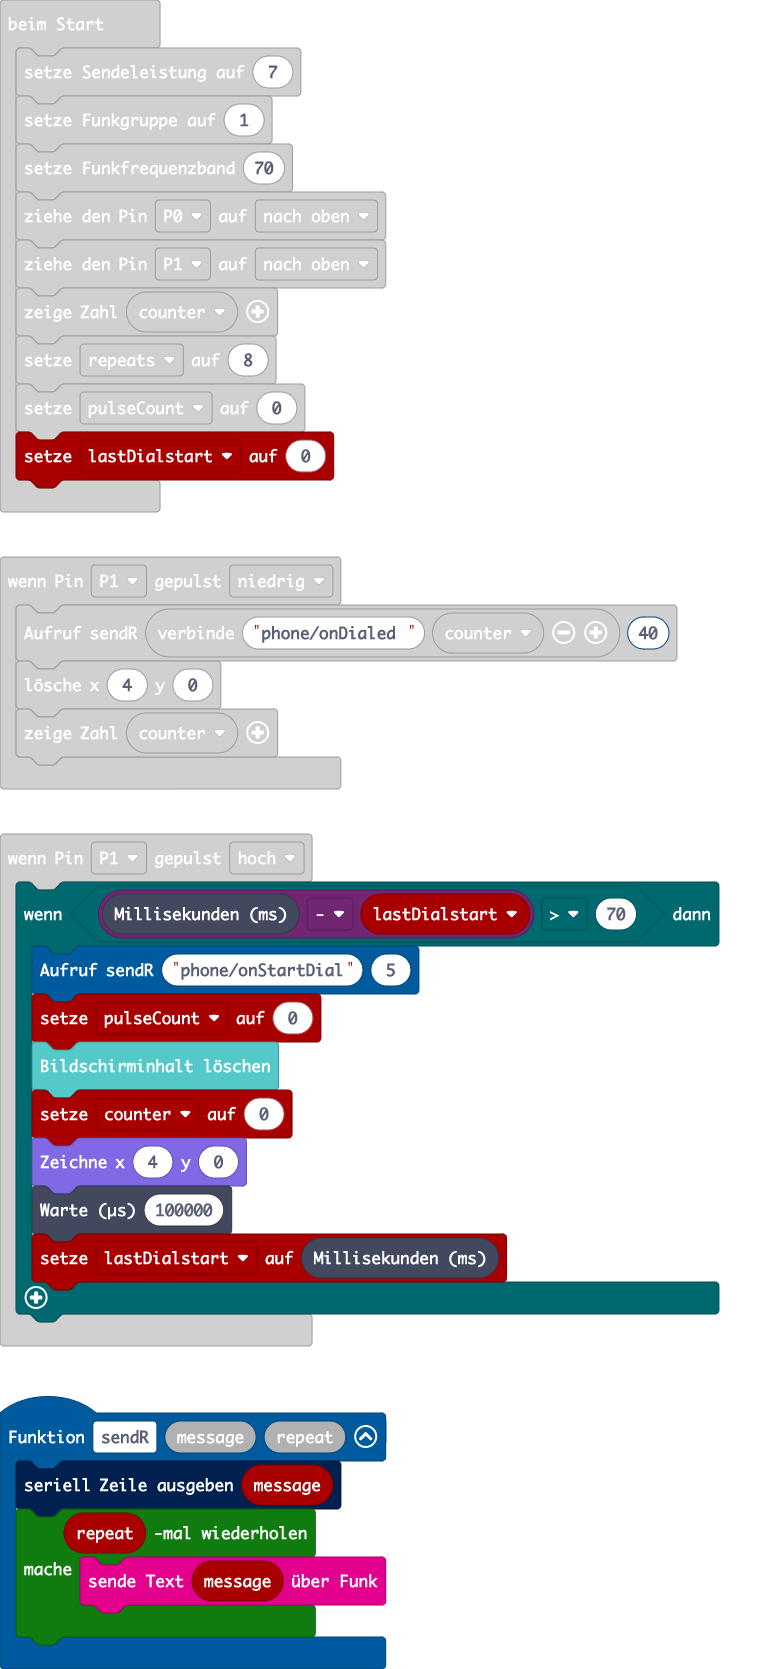
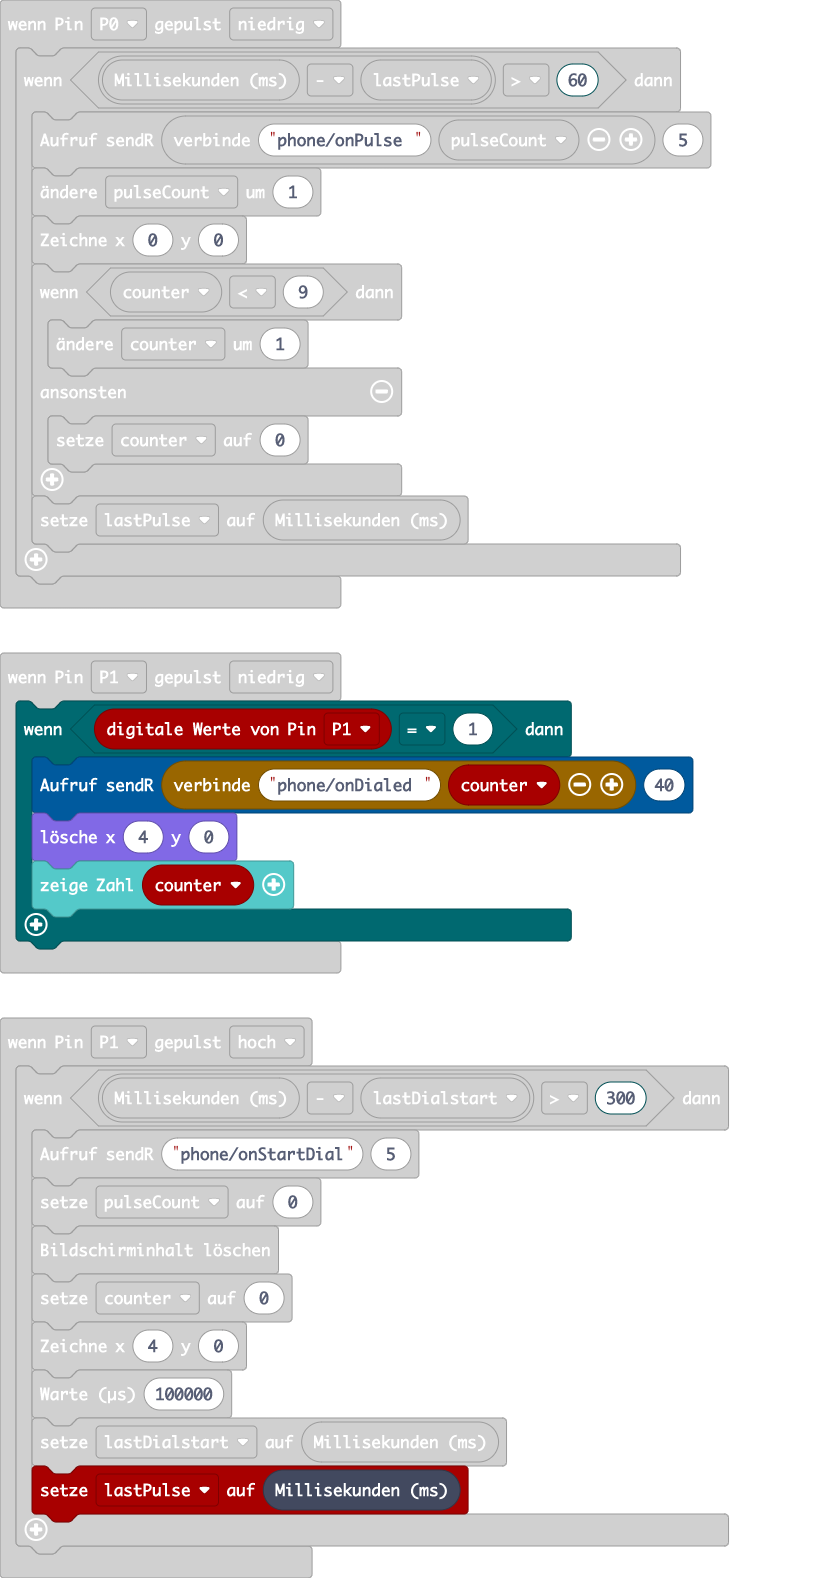
debounce dialed trigger

diff --git a/main.ts b/main.ts
@@ -5,9 +5,11 @@ input.onButtonEvent(Button.A, ButtonEvent.Click, function () {
     sendR("phone/onButtonA", 5)
 })
 pins.onPulsed(DigitalPin.P1, PulseValue.Low, function () {
-    sendR("phone/onDialed " + counter, 40)
-    led.unplot(4, 0)
-    basic.showNumber(counter)
+    if (pins.digitalReadPin(DigitalPin.P1) == 1) {
+        sendR("phone/onDialed " + counter, 40)
+        led.unplot(4, 0)
+        basic.showNumber(counter)
+    }
 })
 function sendR (message: string, repeat: number) {
     serial.writeLine(message)
@@ -16,7 +18,7 @@ function sendR (message: string, repeat: number) {
     }
 }
 pins.onPulsed(DigitalPin.P1, PulseValue.High, function () {
-    if (control.millis() - lastDialstart > 70) {
+    if (control.millis() - lastDialstart > 300) {
         sendR("phone/onStartDial", 5)
         pulseCount = 0
         basic.clearScreen()
@@ -24,13 +26,14 @@ pins.onPulsed(DigitalPin.P1, PulseValue.High, function () {
         led.plot(4, 0)
         control.waitMicros(100000)
         lastDialstart = control.millis()
+        lastPulse = control.millis()
     }
 })
 pins.onPulsed(DigitalPin.P0, PulseValue.High, function () {
     led.unplot(0, 0)
 })
 pins.onPulsed(DigitalPin.P0, PulseValue.Low, function () {
-    if (control.millis() - lastPulse > 70) {
+    if (control.millis() - lastPulse > 60) {
         sendR("phone/onPulse " + pulseCount, 5)
         pulseCount += 1
         led.plot(0, 0)
